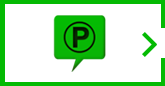
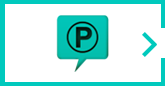
秦淮区位置调整

diff --git a/src/main/webapp/META-INF/resources/script/map.js b/src/main/webapp/META-INF/resources/script/map.js
@@ -8,11 +8,11 @@
     var map;
     var point;
     var mapClusterer;
-	var myIconred = new BMap.Icon("http://112.74.109.240/parkYanCheng/images/red.png", new BMap.Size(32, 47),{
+	var myIconred = new BMap.Icon("http://112.74.109.240/parkYanCheng/images/red.png", new BMap.Size(23, 25),{
     });
-	var myIcongreen = new BMap.Icon("http://112.74.109.240/parkYanCheng/images/green.png", new BMap.Size(32, 47),{
+	var myIcongreen = new BMap.Icon("http://112.74.109.240/parkYanCheng/images/green.png", new BMap.Size(23, 25),{
     });
-	var myIconyellow = new BMap.Icon("http://112.74.109.240/parkYanCheng/images/yellow.png", new BMap.Size(32, 47),{
+	var myIconyellow = new BMap.Icon("http://112.74.109.240/parkYanCheng/images/yellow.png", new BMap.Size(23, 25),{
     });   
     var mapInitial=function(){
         map = new BMap.Map("parkmap");

diff --git a/src/main/webapp/META-INF/resources/script/qhq_carport.js b/src/main/webapp/META-INF/resources/script/qhq_carport.js
@@ -56,7 +56,7 @@
 				    i++;
 				});
 				i=0;
-				$('#row2 .col-xs-1').each(function(){
+				$('.row2 ').each(function(){
 				    var status=data[26-i]["status"];
 				    if (status==0) {
 				        $(this).find('img').attr('src','img/gcar.png');
